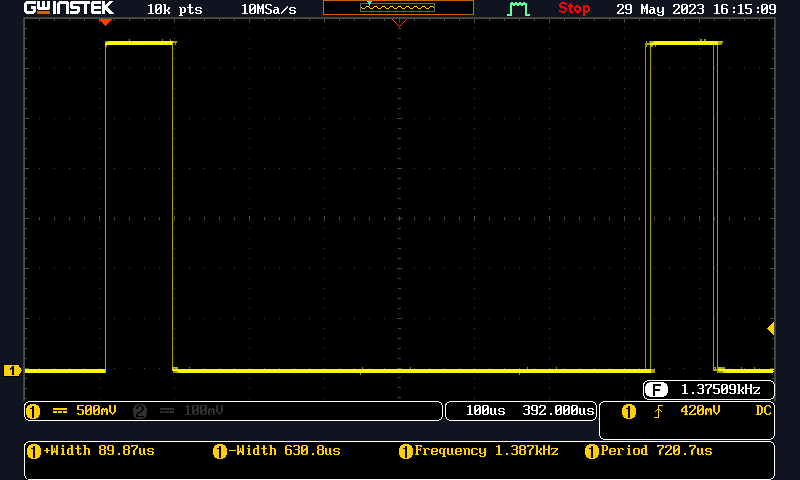
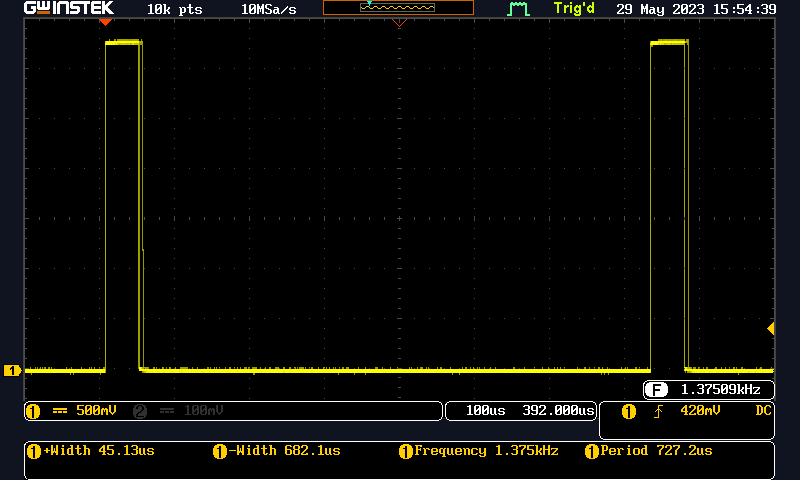
.

diff --git a/docs/compute.md b/docs/compute.md
@@ -4,8 +4,13 @@ La sua durata determina in qualche modo l'intera efficienza del sistema.
 
 Sul mio ESP32 WROOM32 clockato a 240MHz, questo calcolo dura intorno a 90uS.
 
-Vedi il test point 1 (+Width) in basso a destra
+Vedi il test point 1 (+Width) in basso a sinistra
 
-![Durata del metodo compute](./images/DurataCompute vs Periodo 1.PNG)
+![Durata del metodo compute con 32 campioni](./images/DurataCompute vs Periodo 1.PNG)
 
-![Durata del metodo compute](./images/DurataCompute vs Periodo 2.PNG)
+La durata di questo calcolo dipende anche dal numero di campioni calcolati (buffer).
+Nel caso precedende ad esempio questi campioni sono 32.
+
+Se portiamo il numero di campioni a 16, la durata scende in proporzione e abbiamo una durata di 45uS
+
+![Durata del metodo compute con 16 campioni](./images/DurataCompute vs Periodo 2.PNG)

diff --git a/docs/README.md b/docs/README.md
@@ -7,6 +7,7 @@
 
 ### Appunti
 [Il Codec](./codec.md)
+
 [Il file Cpp generato da Faust](./compute.md)
 
 
